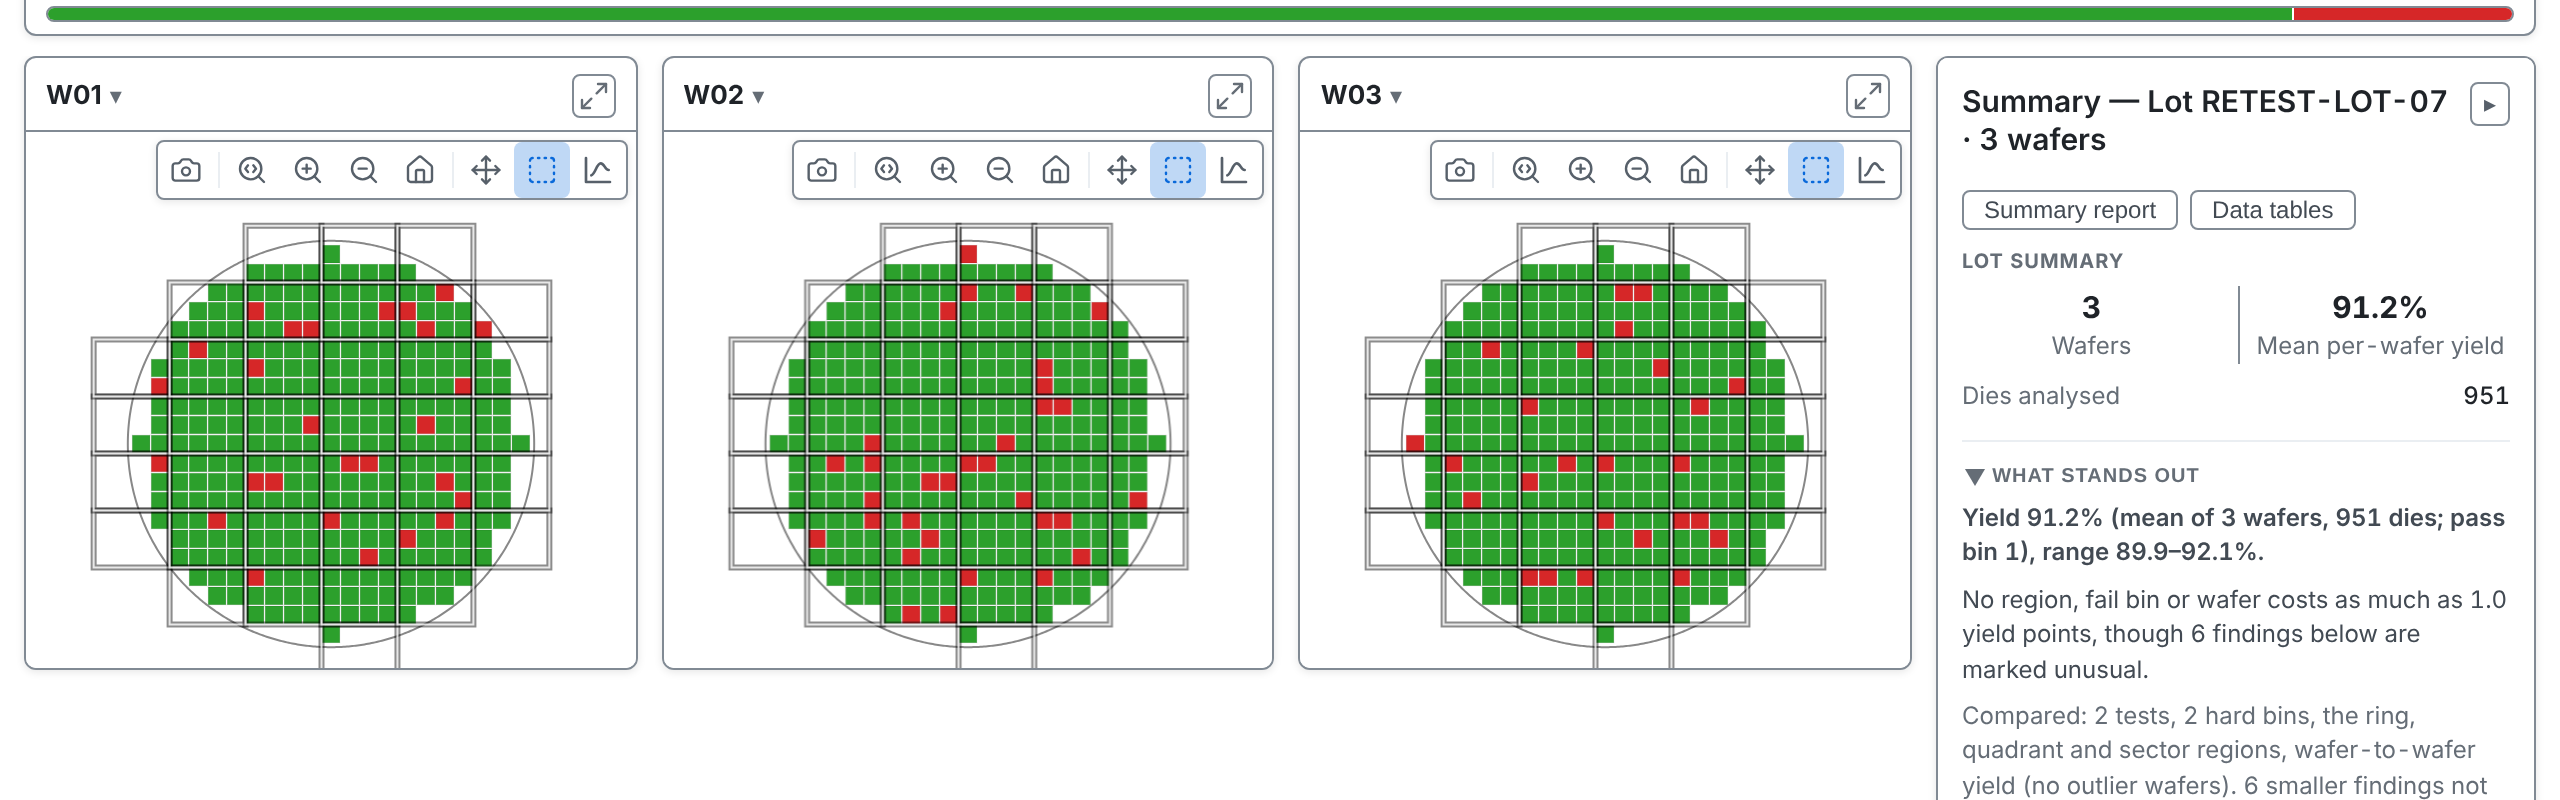
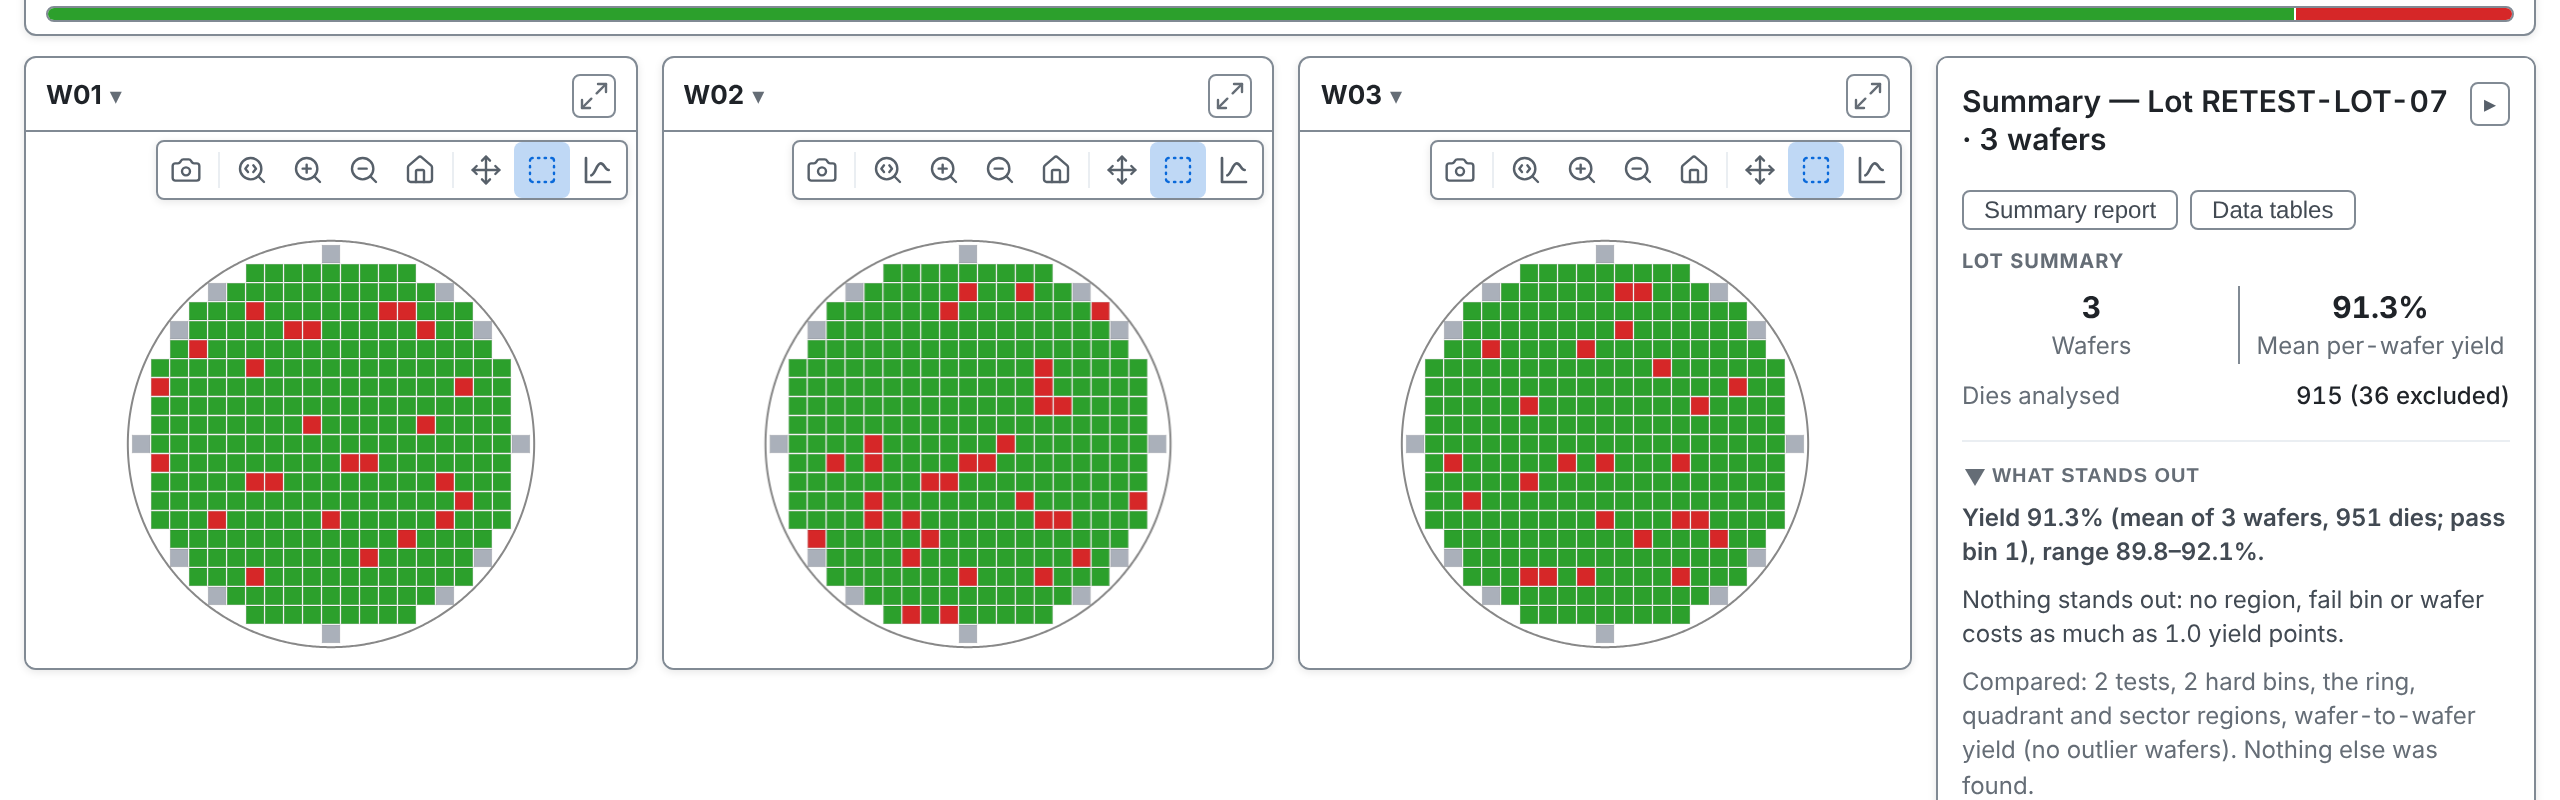
Show the edge exclusion band without the reticle grid
Clear the reticle before the diameter step so the grid does not appear, and use 10 mm so the dimmed edge dies are easy to see.

diff --git a/docs/training/09-unusual-wafers.md b/docs/training/09-unusual-wafers.md
@@ -211,7 +211,7 @@ tsmap normally works the size out from the data. Override it when there are too 
 
 # A band at the edge
 
-With 300 mm and 3 mm entered, dies within 3 mm of the edge are left out of yield and drawn dimmed. Both values are remembered.
+With 300 mm and 10 mm entered, dies within 10 mm of the edge are left out of yield and drawn dimmed. Both values are remembered.
 
 ![The wafers with an edge exclusion band](images/09/edge-exclusion.png)
 
